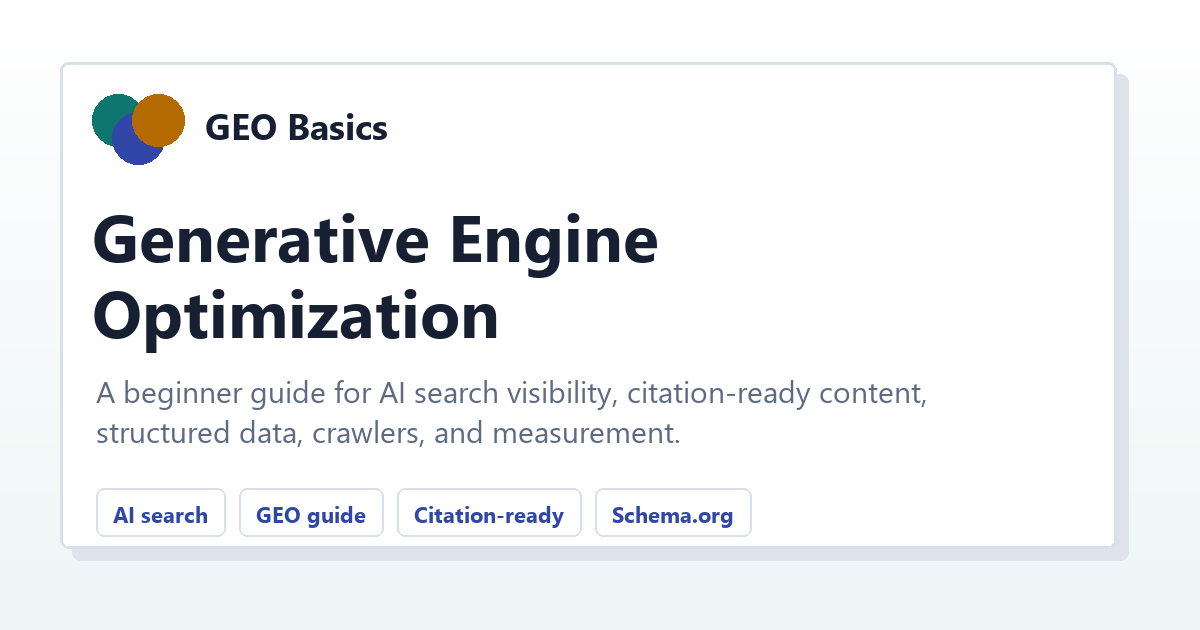
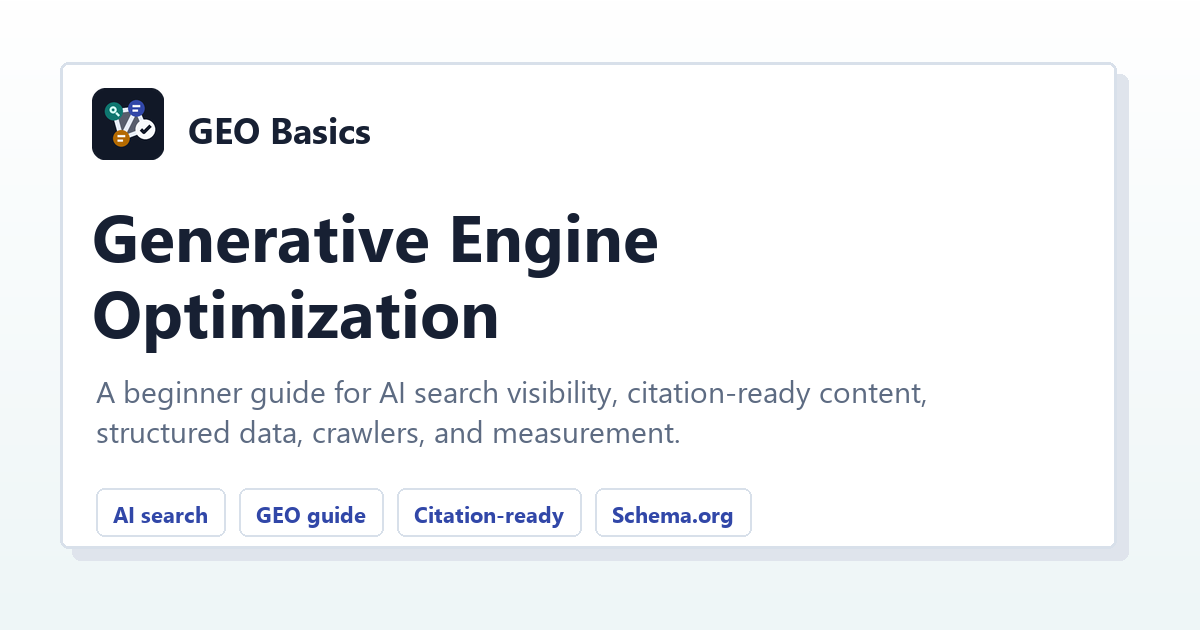
Update GEO Basics brand mark (#8)

Changed region(s): [[0.0617, 0.1206, 0.3392, 0.2714]]

diff --git a/scripts/generate-social-image.py b/scripts/generate-social-image.py
@@ -36,6 +36,57 @@ def draw_wrapped(draw, text, xy, font, fill, max_width, line_height, max_lines):
         y += line_height
 
 
+def draw_geo_mark(base, xy, size):
+    multiplier = 4
+    mark_size = size * multiplier
+    mark = Image.new("RGBA", (mark_size, mark_size), (0, 0, 0, 0))
+    draw = ImageDraw.Draw(mark)
+    scale = mark_size / 96
+
+    def point(x, y):
+        return (round(x * scale), round(y * scale))
+
+    def box(cx, cy, radius):
+        return (
+            round((cx - radius) * scale),
+            round((cy - radius) * scale),
+            round((cx + radius) * scale),
+            round((cy + radius) * scale),
+        )
+
+    def line(points, fill, width, joint=None):
+        draw.line([point(x, y) for x, y in points], fill=fill, width=round(width * scale), joint=joint)
+
+    draw.rounded_rectangle((0, 0, mark_size, mark_size), radius=round(18 * scale), fill=(17, 24, 39, 255))
+    draw.polygon([point(29, 31), point(59, 27), point(71, 55), point(39, 67)], fill=(23, 32, 51, 184))
+
+    for segment in [
+        ((29, 31), (59, 27)),
+        ((59, 27), (71, 55)),
+        ((29, 31), (39, 67)),
+        ((39, 67), (71, 55)),
+        ((59, 27), (39, 67)),
+    ]:
+        line(segment, (229, 237, 247, 220), 6)
+
+    draw.ellipse(box(29, 31, 12), fill=(14, 118, 111, 255))
+    draw.ellipse(box(59, 27, 11), fill=(49, 71, 168, 255))
+    draw.ellipse(box(39, 67, 11), fill=(180, 106, 0, 255))
+    draw.ellipse(box(71, 55, 13), fill=(248, 250, 252, 255))
+
+    draw.ellipse(box(28, 29, 4.75), outline=(204, 251, 241, 255), width=round(3 * scale))
+    line(((32, 33), (36, 37)), (204, 251, 241, 255), 3)
+    line(((54, 24), (64, 24)), (248, 250, 252, 230), 3)
+    line(((54, 30), (61, 30)), (248, 250, 252, 230), 3)
+    line(((34, 64), (44, 64)), (248, 250, 252, 230), 3)
+    line(((34, 70), (41, 70)), (248, 250, 252, 230), 3)
+    line(((65, 55), (69, 59), (78, 50)), (17, 24, 39, 255), 4.5, joint="curve")
+
+    resampling = getattr(Image, "Resampling", Image)
+    mark = mark.resize((size, size), resampling.LANCZOS)
+    base.paste(mark, xy, mark)
+
+
 def main():
     image = Image.new("RGB", (WIDTH, HEIGHT), (246, 248, 251))
     draw = ImageDraw.Draw(image)
@@ -52,8 +103,6 @@ def main():
     ink = (23, 32, 51)
     muted = (93, 107, 130)
     indigo = (49, 71, 168)
-    teal = (14, 118, 111)
-    amber = (180, 106, 0)
     line = (216, 224, 234)
 
     draw.rounded_rectangle((72, 74, 1128, 560), radius=8, fill=(223, 228, 236))
@@ -64,10 +113,8 @@ def main():
     subtitle_font = load_font("segoeui.ttf", 30)
     tag_font = load_font("segoeuib.ttf", 22)
 
-    draw.ellipse((92, 94, 144, 146), fill=teal)
-    draw.ellipse((112, 112, 164, 164), fill=indigo)
-    draw.ellipse((132, 94, 184, 146), fill=amber)
-    draw.text((205, 101), "GEO Basics", font=brand_font, fill=ink)
+    draw_geo_mark(image, (92, 88), 72)
+    draw.text((188, 105), "GEO Basics", font=brand_font, fill=ink)
 
     draw.text((92, 190), "Generative Engine", font=title_font, fill=ink)
     draw.text((92, 266), "Optimization", font=title_font, fill=ink)